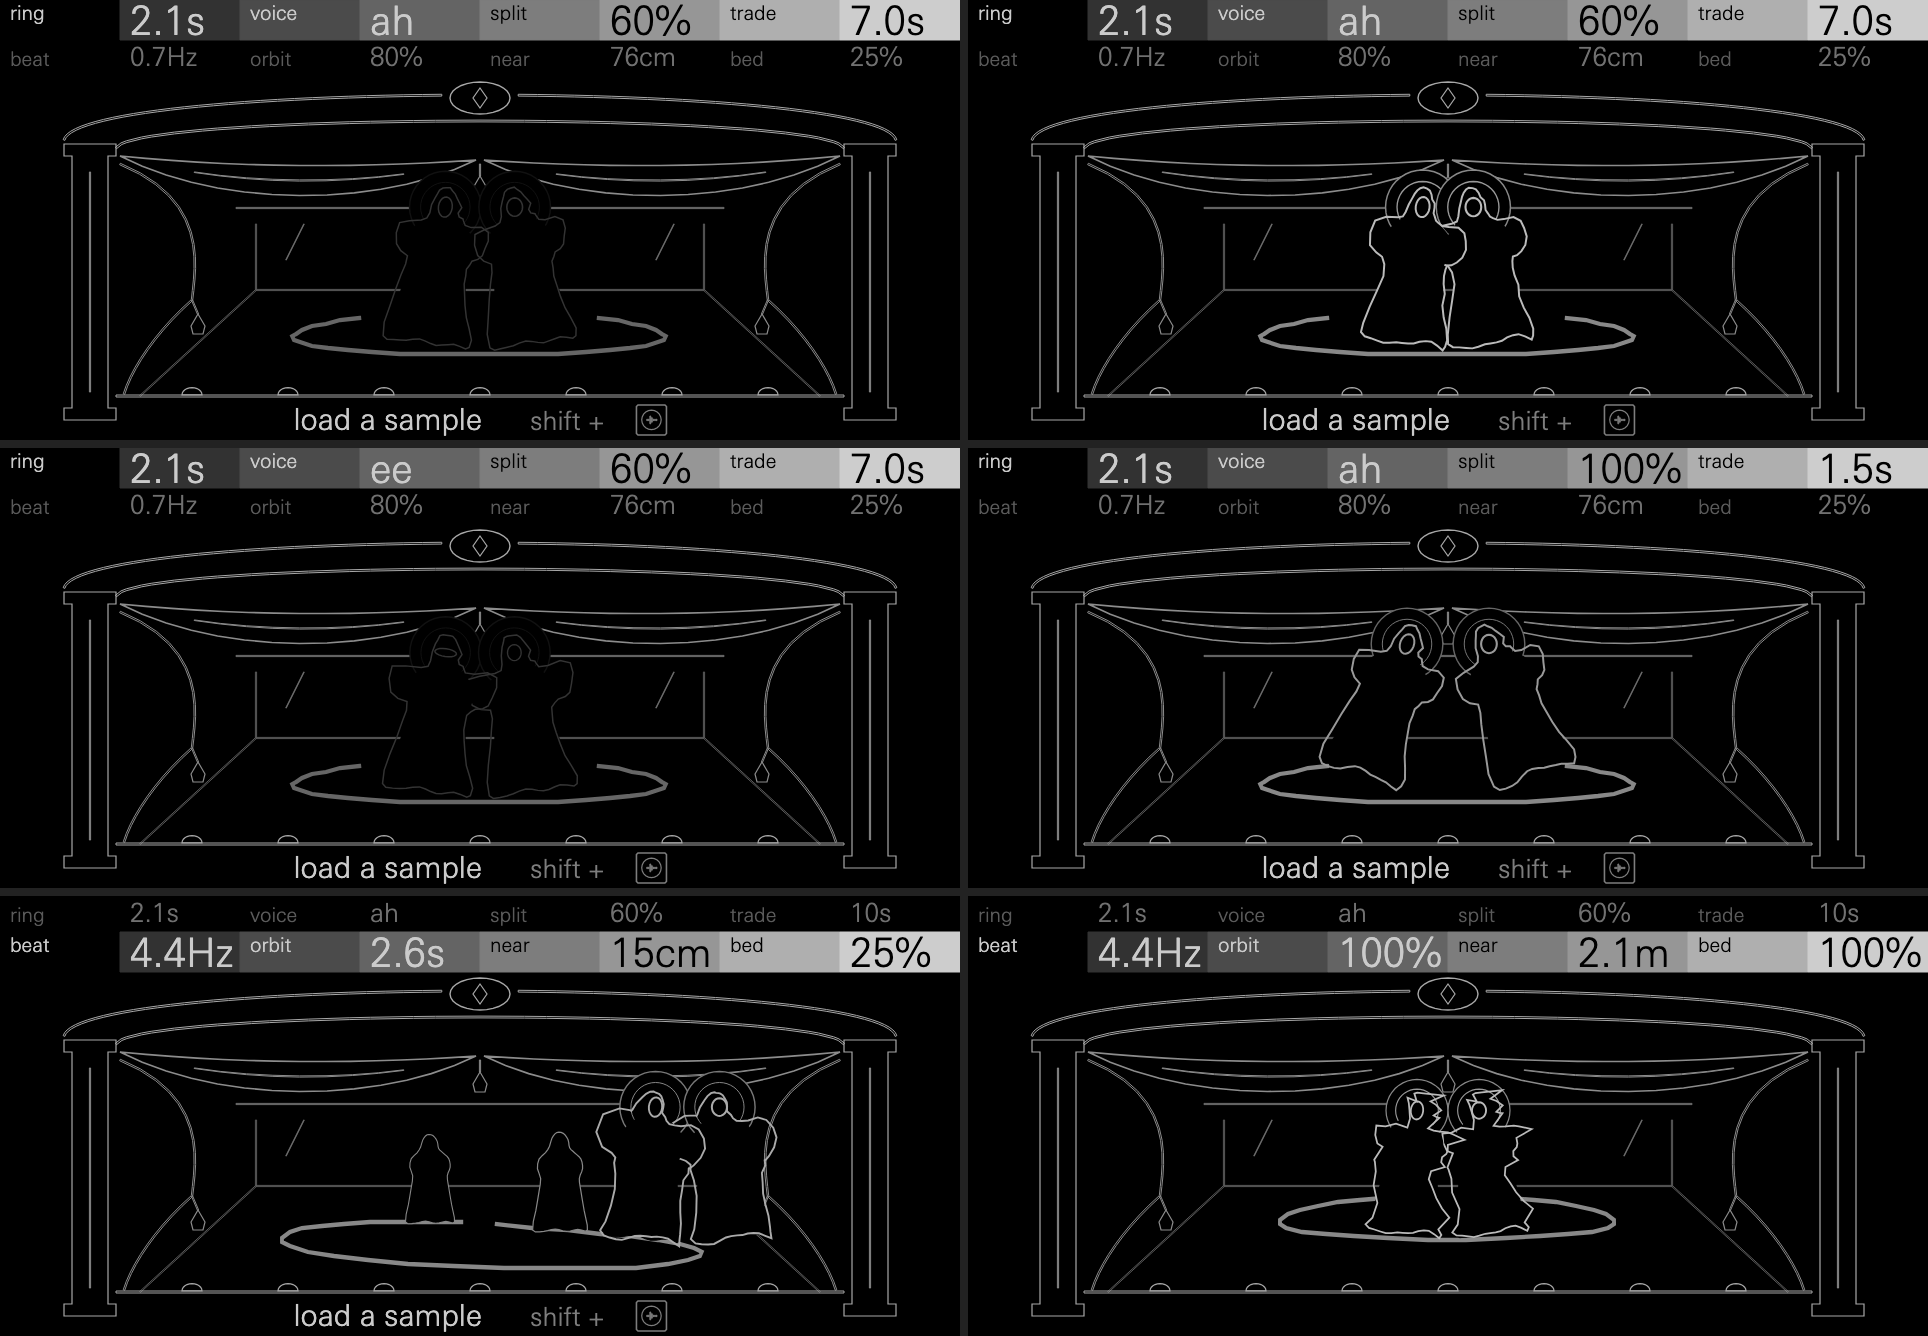
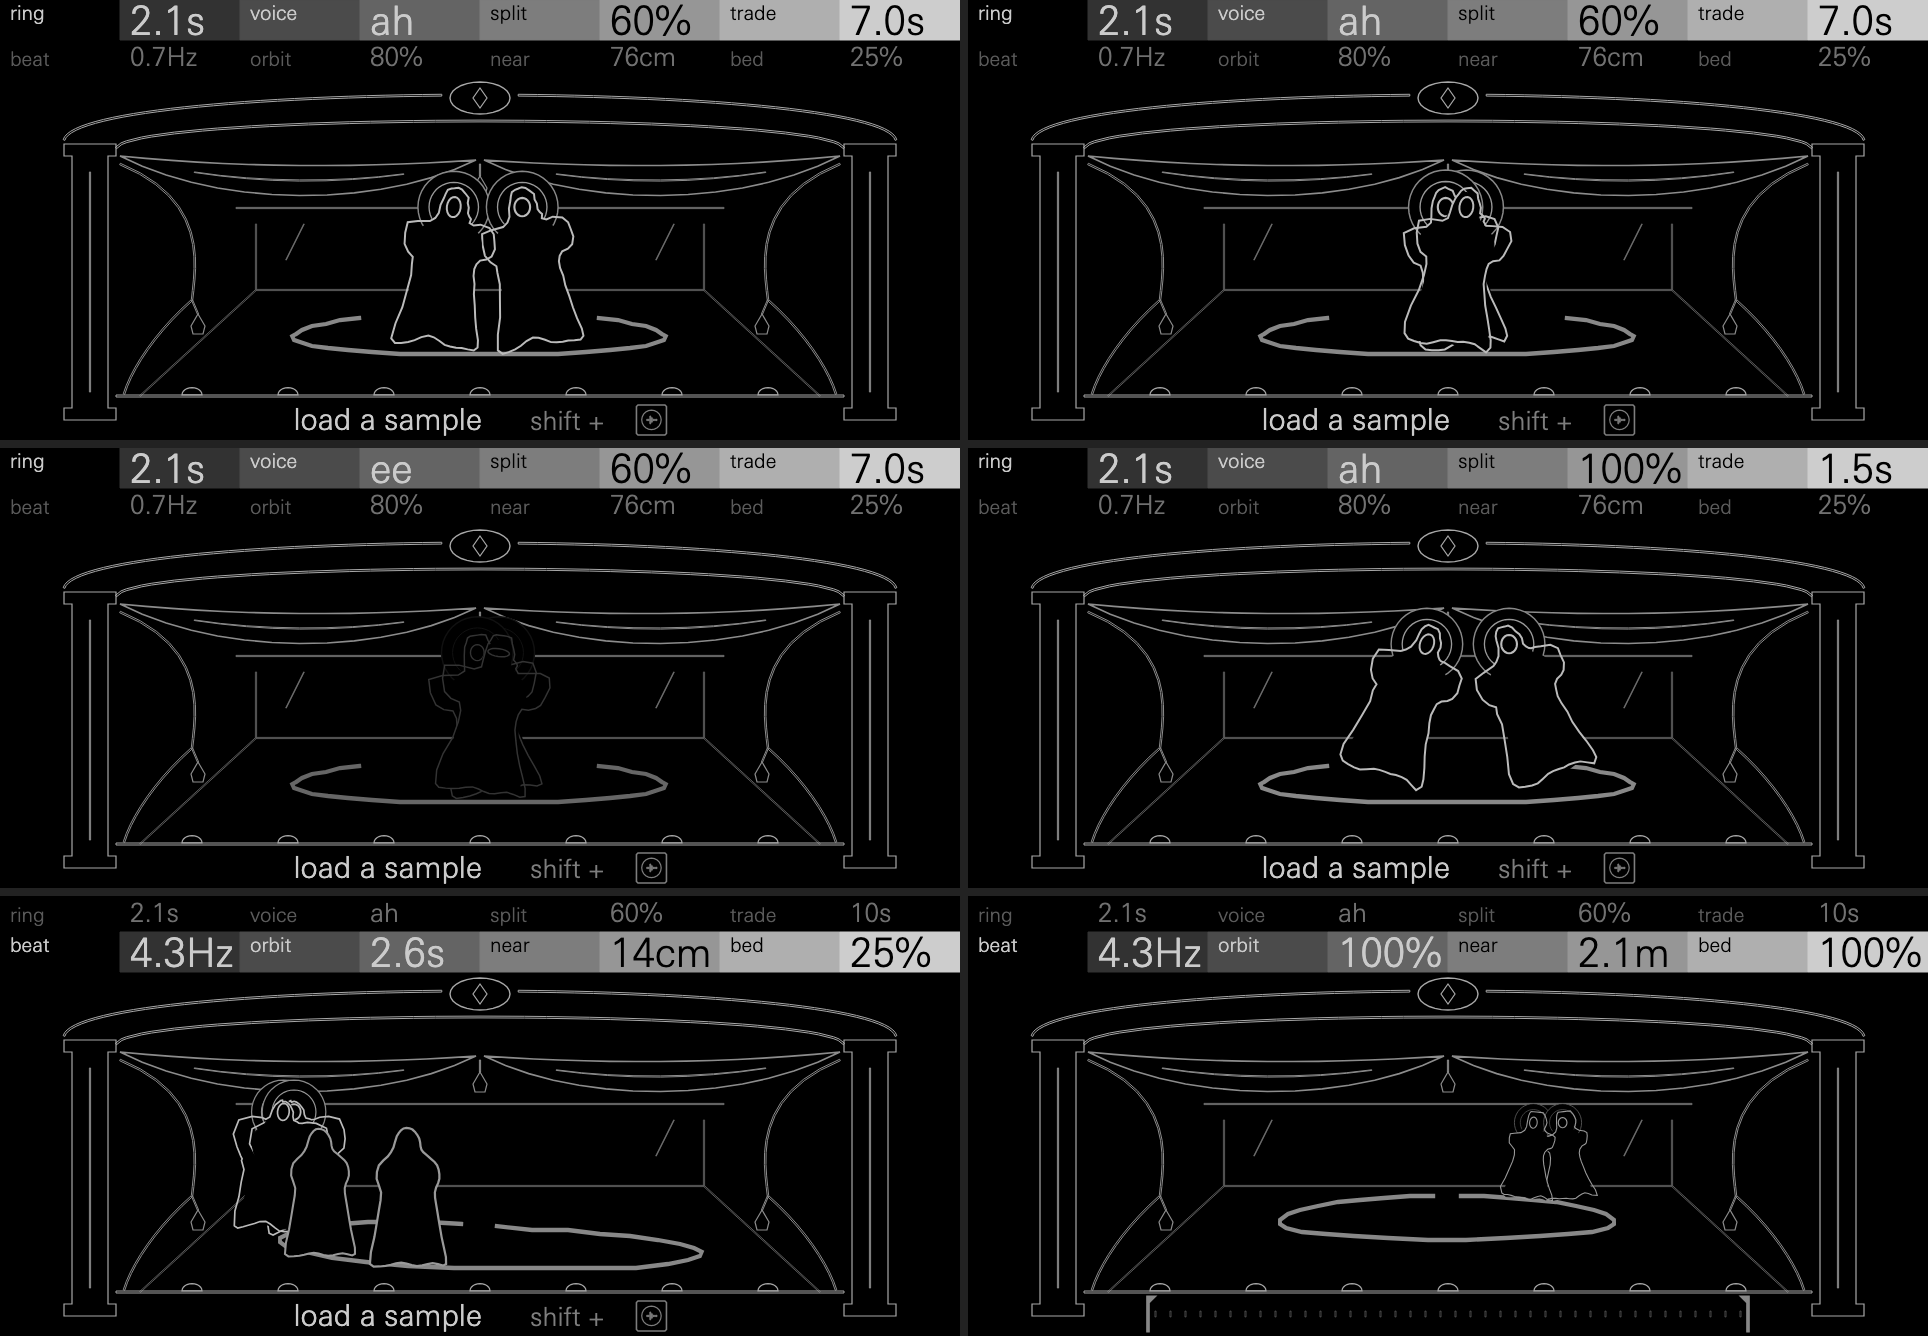
Docs: Ghost's and Recur's GIFs and stills from today's screens
Recur's GIF shows fit and the tape, Shift trimming it a bar at a time; Ghost's
shows the sample's strip under the apron. docs/screens' two GIFs and the
suite's grid take the new cells; the other seven are unchanged. Recur gains
tools/make_gif.py, as Ghost has. Ghost's frames tool saves a frame after it is
drawn, so its GIF no longer opens on a blank frame.

diff --git a/recur/tools/make_gif.py b/recur/tools/make_gif.py
@@ -1,0 +1,60 @@
+#!/usr/bin/env python3
+"""Makes docs/recur.gif: tools/screen.cpp's session, every 4th frame of its
+60 a second (15 a second), on samples/break.wav; frame2svg.py draws each,
+headless Chrome rasterises them at 720 x 330 and ffmpeg assembles them.
+    XY_FONT=<path to UniversNextPro-Light.ttf> make_gif.py <screen binary> <work folder>
+XY_FONT is the OP-XY's face, from an OP-XY checkout; it is never copied here."""
+import concurrent.futures
+import os
+import pathlib
+import subprocess
+import sys
+import tempfile
+
+ROOT = pathlib.Path(__file__).resolve().parents[1]
+CHROME = "/Applications/Google Chrome.app/Contents/MacOS/Google Chrome"
+_font = os.environ.get("XY_FONT")
+if not _font or not pathlib.Path(_font).is_file():
+    sys.exit("make_gif.py: set XY_FONT to the path of UniversNextPro-Light.ttf "
+             "(the OP-XY's face, from an OP-XY checkout)" + (f"; {_font} is not a file" if _font else ""))
+if len(sys.argv) != 3:
+    sys.exit("usage: XY_FONT=<UniversNextPro-Light.ttf> make_gif.py <screen binary> <work folder>")
+binary, work = sys.argv[1], pathlib.Path(sys.argv[2]).resolve()
+work.mkdir(parents=True, exist_ok=True)
+for old in work.glob("gif-*"):
+    old.unlink()
+subprocess.run([binary, str(ROOT / "samples/break.wav"), str(work), "4"], check=True)
+
+
+def whole(png):
+    """Chrome now and then captures before it has drawn the lower part, which
+    it leaves white; the screen's bottom rows are near black."""
+    rows = subprocess.run(["ffmpeg", "-loglevel", "error", "-i", str(png), "-vf", "crop=iw:6:0:ih-6", "-f", "rawvideo",
+                           "-pix_fmt", "gray", "-"], check=True, capture_output=True).stdout
+    return sum(rows) / len(rows) < 100
+
+
+def shoot(frame):
+    svg, png = frame.with_suffix(".svg"), frame.with_suffix(".png")
+    subprocess.run([sys.executable, str(ROOT / "tools/frame2svg.py"), str(frame), str(svg)], check=True)
+    svg.write_text(svg.read_text().replace('width="1440" height="660"', 'width="720" height="330"', 1))
+    for _ in range(4):   # a launch now and then fails, hangs or captures half drawn: try again
+        with tempfile.TemporaryDirectory() as profile:
+            try:
+                done = subprocess.run([CHROME, "--headless=new", "--disable-gpu", "--hide-scrollbars", "--allow-file-access-from-files",
+                                       "--force-device-scale-factor=1", f"--user-data-dir={profile}", "--virtual-time-budget=1000",
+                                       "--window-size=720,330", f"--screenshot={png}", svg.as_uri()],
+                                      stdout=subprocess.DEVNULL, stderr=subprocess.DEVNULL, timeout=120)
+            except subprocess.TimeoutExpired:
+                continue
+        if done.returncode == 0 and png.exists() and whole(png):
+            return
+    sys.exit(f"make_gif.py: Chrome failed to capture {png.name} whole")
+
+
+with concurrent.futures.ThreadPoolExecutor(4) as pool:
+    list(pool.map(shoot, sorted(work.glob("gif-*.json"))))
+subprocess.run(["ffmpeg", "-loglevel", "error", "-y", "-framerate", "15", "-i", str(work / "gif-%04d.png"),
+                "-vf", "split[a][b];[a]palettegen=max_colors=32[p];[b][p]paletteuse=dither=none",
+                str(ROOT / "docs/recur.gif")], check=True)
+print("docs/recur.gif")

diff --git a/ghost/tools/frames.cpp b/ghost/tools/frames.cpp
@@ -129,14 +129,14 @@ struct Session {
     void run(double seconds, const char* shot = 0) {
         const u32 count = u32(seconds * fps + 0.5);
         for (u32 k = 0; k < count; ++k) {
-            if (every && frames % every == 0) {
+            input.elapsed = i32(1024 / fps);
+            for (u32 i = 0; i < 4; ++i) input.parameters[i] = input.slots[input.shown[i]];
+            ghost::display(state, input, frame);
+            if (every && frames % every == 0) {   // after display, so the first isn't the blank frame
                 char name[32];
                 std::snprintf(name, sizeof name, "/frame-%04u.json", dumped++);
                 dump(frame, folder + name);
             }
-            input.elapsed = i32(1024 / fps);
-            for (u32 i = 0; i < 4; ++i) input.parameters[i] = input.slots[input.shown[i]];
-            ghost::display(state, input, frame);
             if (!valid(frame)) ++invalid;
             check_outlines(frame, folder.c_str());
             const u32 c = frames ? count_changes() : 0;
